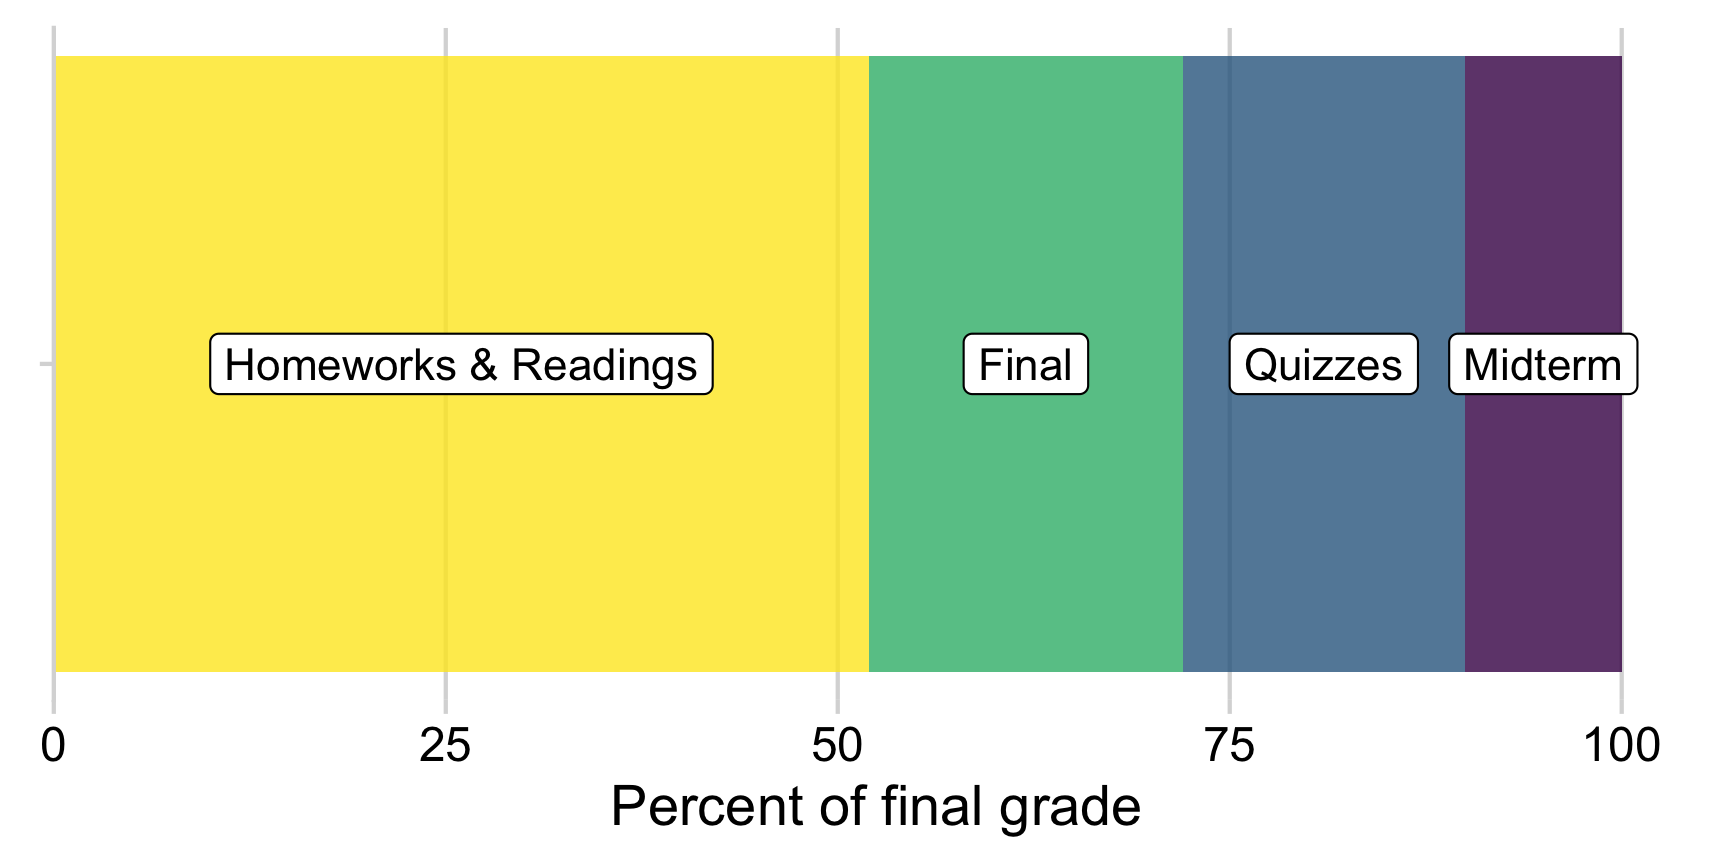
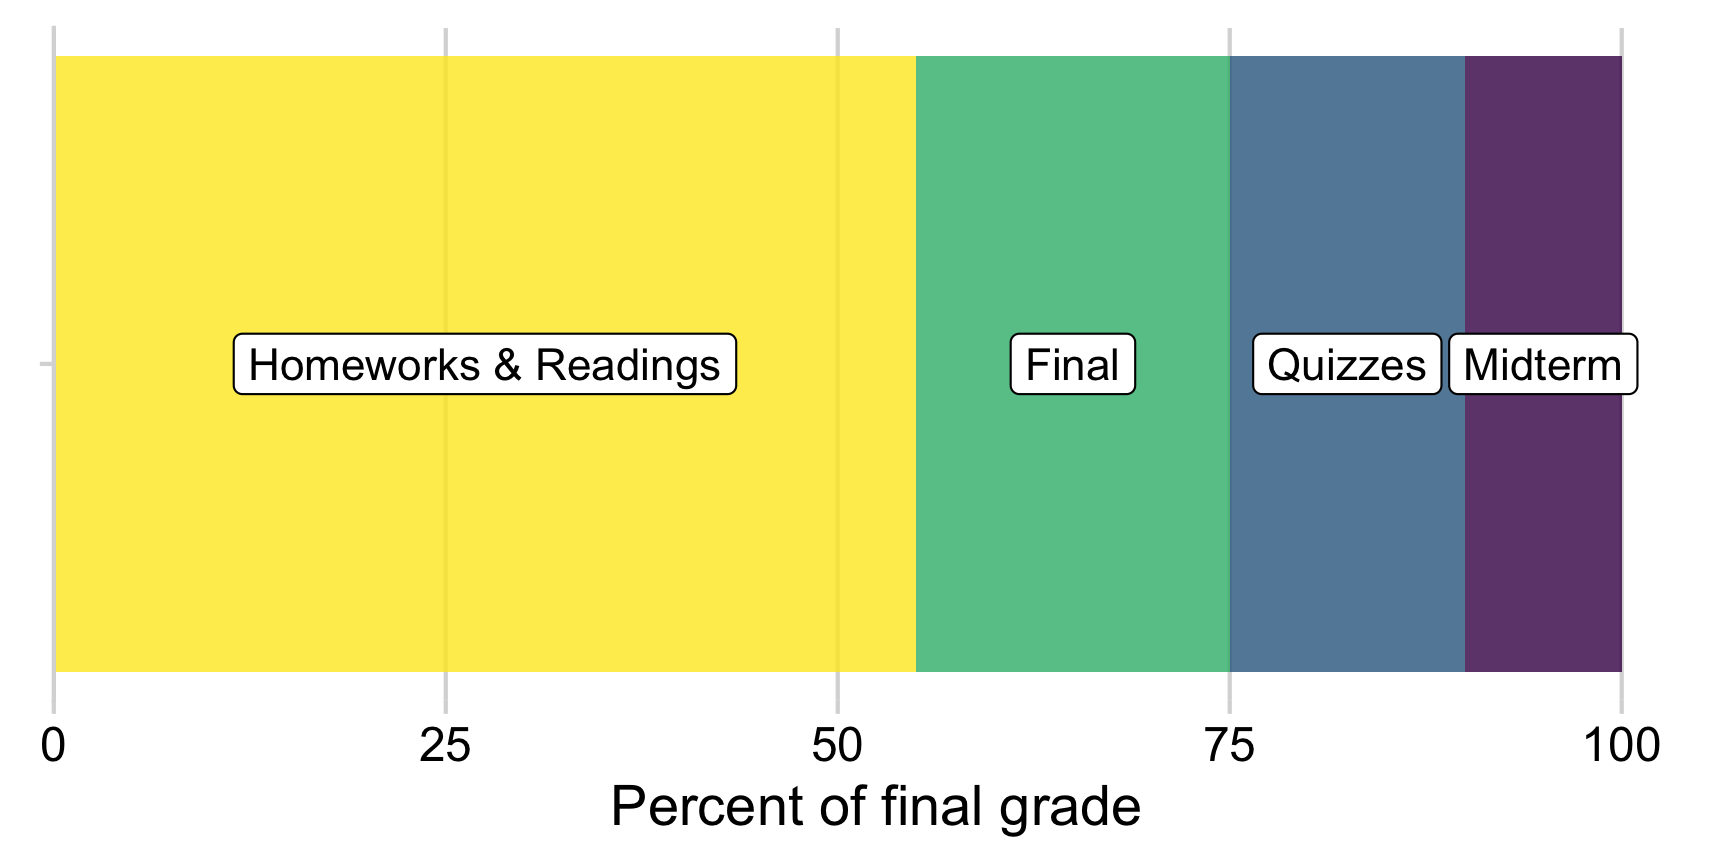
Deploying to gh-pages from  @ 2819ccb828fef820b7d3bda13040f7bb92cb69ad 🚀

Changed region(s): [[0.5, 0.0625, 0.8438, 0.7812], [0.0938, 0.375, 0.4375, 0.4688]]

diff --git a/r13-monte-carlo-methods.html b/r13-monte-carlo-methods.html
@@ -766,11 +766,11 @@ ratio &lt;- sum(belowCurve) / numTrials
 totalArea &lt;- (7 - 3) * 7^2 # Rectangle length x height = 196
 areaUnderCurve &lt;- ratio * totalArea
 areaUnderCurve</code></pre>
-<pre><code>#&gt; [1] 105.6832</code></pre>
-<p>So, using Monte Carlo simulation with 100,000 points, we estimate that the area under the curve is 105.6832. How’d we do? Well, if you’re familiar with calculus, the integral of <span class="math inline">\(f(x) = x^2\)</span> has a closed-form solution (<span class="math inline">\(\frac{x^3}{3} + C\)</span>), so we can check our estimate against the pure-math solution:</p>
+<pre><code>#&gt; [1] 105.446</code></pre>
+<p>So, using Monte Carlo simulation with 100,000 points, we estimate that the area under the curve is 105.44604. How’d we do? Well, if you’re familiar with calculus, the integral of <span class="math inline">\(f(x) = x^2\)</span> has a closed-form solution (<span class="math inline">\(\frac{x^3}{3} + C\)</span>), so we can check our estimate against the pure-math solution:</p>
 <p><span class="math display">\[\int_{3}^{7} x^2 \mathrm{dx} = \left ( \frac{x^3}{3} \right ) \Big|_3^7 = \frac{7^3}{3} - \frac{3^3}{3} = 105.33\bar{3}\]</span></p>
-<p>So our estimate error is: <code>105.333 -</code> <code>105.6832</code> <code>=</code> <code>-0.3498667</code>.</p>
-<p>That’s an error of just 0.33 % - not bad!</p>
+<p>So our estimate error is: <code>105.333 -</code> <code>105.44604</code> <code>=</code> <code>-0.1127067</code>.</p>
+<p>That’s an error of just 0.11 % - not bad!</p>
 <hr />
 </div>
 <div id="monte-carlo-pi" class="section level1">
@@ -801,12 +801,12 @@ points &lt;- data.frame(
     y = runif(numTrials, -0.5, 0.5))
 head(points)</code></pre>
 <pre><code>#&gt;             x           y
-#&gt; 1 -0.16669885 -0.08768147
-#&gt; 2 -0.01902094 -0.24523657
-#&gt; 3  0.23246397  0.06057334
-#&gt; 4  0.06315724  0.22997610
-#&gt; 5  0.06107740 -0.22824336
-#&gt; 6 -0.11887941  0.04222686</code></pre>
+#&gt; 1 -0.48559477 -0.06576981
+#&gt; 2 -0.48835490 -0.44408138
+#&gt; 3 -0.26002462 -0.12685139
+#&gt; 4 -0.17569521  0.34637616
+#&gt; 5 -0.04155958  0.23934023
+#&gt; 6 -0.05675924 -0.15349211</code></pre>
 <p>For this example, we’re putting the points in a data frame to make it easier to work with. Now that we have random x and y points, let’s compute the radius to each point (the distance from <code>(x, y) = (0, 0)</code>) so we can determine which points fall inside the circle (which has a radius of 0.5):</p>
 <pre class="r"><code>library(dplyr)
 points &lt;- points %&gt;%
@@ -823,9 +823,9 @@ ggplot(points) +
 <pre class="r"><code>ratio &lt;- sum(points$pointInCircle) / nrow(points)
 piApprox &lt;- 4 * ratio
 piApprox</code></pre>
-<pre><code>#&gt; [1] 3.132</code></pre>
-<p>So our estimate error is: <code>3.1415 -</code> <code>3.132</code> <code>=</code> <code>-0.0095927</code>.</p>
-<p>That’s an error of just 0.31 % - not bad for only 1,000 points!</p>
+<pre><code>#&gt; [1] 3.08</code></pre>
+<p>So our estimate error is: <code>3.1415 -</code> <code>3.08</code> <code>=</code> <code>-0.0615927</code>.</p>
+<p>That’s an error of just 1.96 % - not bad for only 1,000 points!</p>
 <p>To get an even better estimate of <span class="math inline">\(\pi\)</span>, we can increase N. Let’s see what we get with 100,000 trials:</p>
 <pre class="r"><code>numTrials &lt;- 100000
 points &lt;- data.frame(
@@ -837,13 +837,13 @@ points &lt;- data.frame(
 ratio &lt;- sum(points$pointInCircle) / nrow(points)
 piApprox &lt;- 4 * ratio
 piApprox</code></pre>
-<pre><code>#&gt; [1] 3.14728</code></pre>
+<pre><code>#&gt; [1] 3.13936</code></pre>
 <pre class="r"><code># Compute error:
 error &lt;- piApprox - pi
 percentError &lt;- round(100*abs(error / pi), 2)
 percentError</code></pre>
-<pre><code>#&gt; [1] 0.18</code></pre>
-<p>By increasing the number of trials from 1,000 to 100,000, we improved our estimate error from 0.31 % to 0.18 %!</p>
+<pre><code>#&gt; [1] 0.07</code></pre>
+<p>By increasing the number of trials from 1,000 to 100,000, we improved our estimate error from 1.96 % to 0.07 %!</p>
 <hr />
 <p><strong>Page sources</strong>:</p>
 <p>Some content on this page has been modified from other courses, including:</p>

diff --git a/r2-functions-packages.html b/r2-functions-packages.html
@@ -724,7 +724,7 @@ div.tocify {
 <p>Here the letters <code>sqrt</code> are short for “square root,” and the value inside the <code>()</code> is the “argument” to the function. In the example above, the value <code>225</code> is the “argument”.</p>
 <p>Keep in mind that not all functions have (or require) arguments:</p>
 <pre class="r"><code>date() # Returns the current date and time</code></pre>
-<pre><code>#&gt; [1] &quot;Tue Jan 11 12:26:58 2022&quot;</code></pre>
+<pre><code>#&gt; [1] &quot;Tue Jan 11 13:55:25 2022&quot;</code></pre>
 <p>(the date above is the date this page was last built)</p>
 <div id="multiple-arguments" class="section level2">
 <h2>Multiple arguments</h2>
@@ -942,9 +942,9 @@ library(packagename)   # This also works</code></pre>
 <p>Now that you have the package installed on your computer, try loading it using <code>library(wikifacts)</code>, then trying using some of it’s functions:</p>
 <pre class="r"><code>library(wikifacts) # Load the library</code></pre>
 <pre class="r"><code>wiki_randomfact()</code></pre>
-<pre><code>#&gt; [1] &quot;Did you know that superintendent Marcus Ames resigned in protest after plans were announced to introduce workhouses to the Lancaster Industrial School for Girls in Massachusetts? (Courtesy of Wikipedia)&quot;</code></pre>
+<pre><code>#&gt; [1] &quot;Did you know that on May 28 in 1588 – Anglo-Spanish War: The Spanish Armada (pictured), with 130 ships and over 30,000 men, set sail from Lisbon for the English Channel in an attempt to invade England. (Courtesy of Wikipedia)&quot;</code></pre>
 <pre class="r"><code>wiki_didyouknow()</code></pre>
-<pre><code>#&gt; [1] &quot;Did you know that in 1972, \&quot;Prime Minister\&quot; David Sanchez led an occupation of Catalina Island by the Brown Berets meant to draw attention on the continuing struggles of Mexican-Americans in the United States? (Courtesy of Wikipedia)&quot;</code></pre>
+<pre><code>#&gt; [1] &quot;Did you know that endometriosis, a condition in which tissue from the womb occurs in unusual locations, can cause bleeding into the chest during menstrual periods? (Courtesy of Wikipedia)&quot;</code></pre>
 <p>In case you’re wondering, the only thing this package does is generate messages containing random facts from <a href="https://www.wikipedia.org/">Wikipedia</a>.</p>
 </div>
 <div id="using-only-some-package-functions" class="section level2">
@@ -955,7 +955,7 @@ library(packagename)   # This also works</code></pre>
 </blockquote>
 <p>Here I use the name of the <em>package</em> followed by <code>::</code> to tell R that I’m looking for a function that is in that package. For example, if I didn’t want to load the whole <strong>wikifacts</strong> library but still wanted to use the <code>wiki_randomfact()</code> function, I could do this:</p>
 <pre class="r"><code>wikifacts::wiki_randomfact()</code></pre>
-<pre><code>#&gt; [1] &quot;Here&#39;s some news from 10 December 2018. Former U.S. President George H. W. Bush dies at the age of 94. (Courtesy of Wikipedia)&quot;</code></pre>
+<pre><code>#&gt; [1] &quot;Did you know that on January 14 in 1960 – The Reserve Bank of Australia, the country&#39;s central bank and banknote-issuing authority, was established. (Courtesy of Wikipedia)&quot;</code></pre>
 <p>Where this is particularly handy is when two packages have a function with the same name. If you load both library, R might not know which function to use. In those cases, it’s best to also provide the <strong>package</strong> name. For example, let’s say there was a package called <strong>apples</strong> and another called <strong>bananas</strong>, and each had a function named <code>fruitName()</code>. If I wanted to use each of them in my code, I would need to specify the package names like this:</p>
 <pre class="r"><code>apples::fruitName()
 bananas::fruitName()</code></pre>

diff --git a/syllabus.html b/syllabus.html
@@ -828,13 +828,13 @@ div.tocify {
 <tbody>
 <tr class="odd">
 <td>Homeworks &amp; Readings (12x)</td>
-<td>52%</td>
-<td>Lowest dropped</td>
+<td>55%</td>
+<td>Lowest 1 dropped</td>
 </tr>
 <tr class="even">
 <td>Quizzes (7x)</td>
-<td>18%</td>
-<td>Lowest dropped</td>
+<td>15%</td>
+<td>Lowest 2 dropped</td>
 </tr>
 <tr class="odd">
 <td>Midterm Exam</td>
